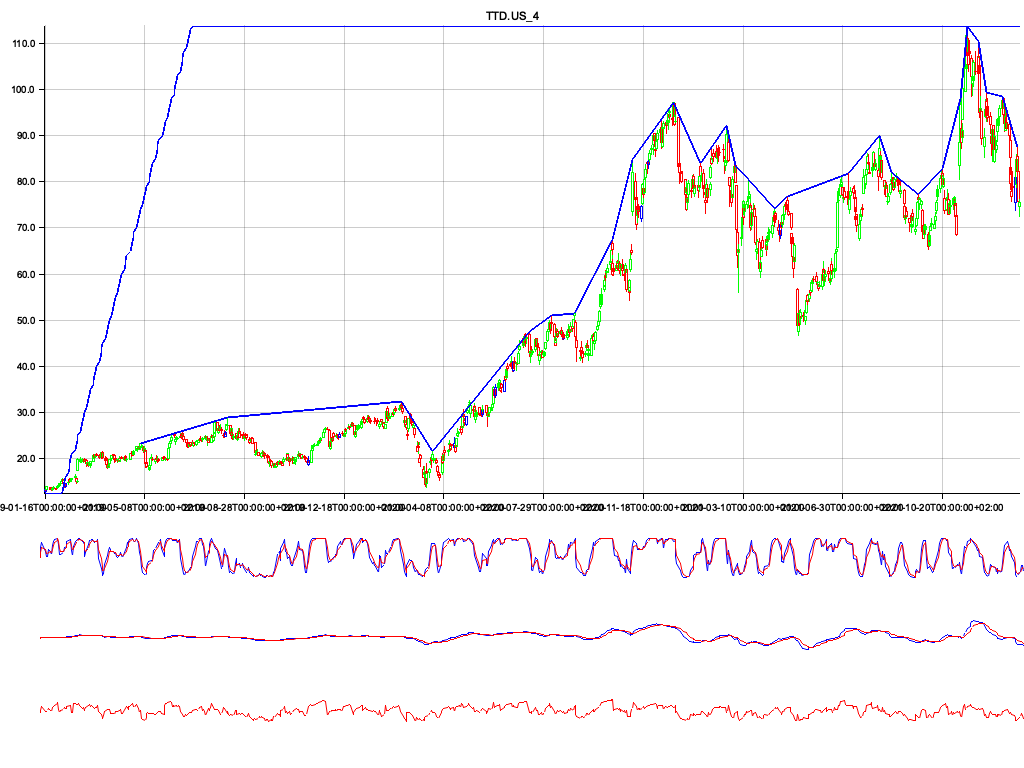
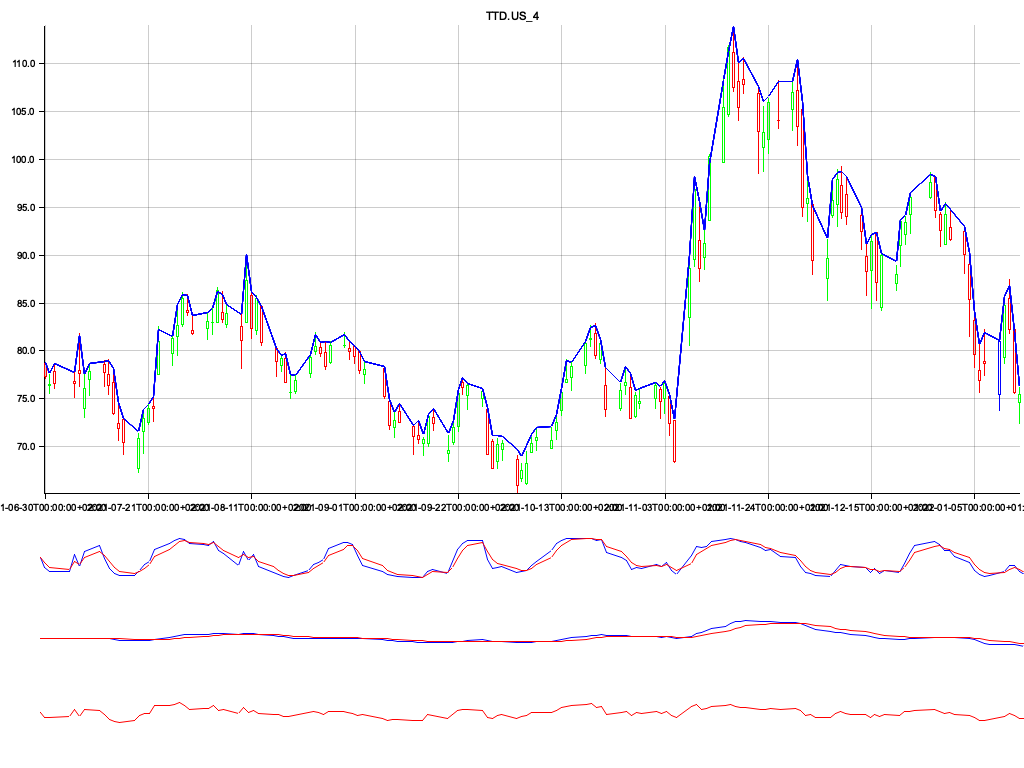
refactor: improve kernel regressing (not finished)

diff --git a/src/backend.rs b/src/backend.rs
@@ -36,7 +36,8 @@ impl Backend {
 
         let data = instrument.data();
         let local_maxima = instrument.peaks().local_maxima();
-        let smooth_maxima = instrument.peaks().smooth_maxima();
+        let smooth_highs = instrument.peaks().smooth_highs();
+        let smooth_lows = instrument.peaks().smooth_lows();
         let local_minima = instrument.peaks().local_minima();
         let extrema_maxima = instrument.peaks().extrema_maxima();
         let extrema_minima = instrument.peaks().extrema_minima();
@@ -101,10 +102,24 @@ impl Backend {
             .unwrap();
 
         // UPPER CHANNEL
-        for x in local_maxima.iter() {
+        // for x in local_maxima.iter() {
+        //     chart
+        //         .draw_series(LineSeries::new(
+        //             (0..).zip(local_maxima.iter()).map(|(_k, highs)| {
+        //                 let idx = highs.0;
+        //                 let value = highs.1;
+        //                 let date = data[idx].date();
+        //                 (date, value)
+        //             }),
+        //             &BLUE,
+        //         ))
+        //         .unwrap();
+        // }
+
+        for x in smooth_highs.iter() {
             chart
                 .draw_series(LineSeries::new(
-                    (0..).zip(local_maxima.iter()).map(|(_k, highs)| {
+                    (0..).zip(smooth_highs.iter()).map(|(_k, highs)| {
                         let idx = highs.0;
                         let value = highs.1;
                         let date = data[idx].date();
@@ -115,10 +130,10 @@ impl Backend {
                 .unwrap();
         }
 
-        for x in local_maxima.iter() {
+        for x in smooth_lows.iter() {
             chart
                 .draw_series(LineSeries::new(
-                    (0..).zip(smooth_maxima.iter()).map(|(_k, highs)| {
+                    (0..).zip(smooth_lows.iter()).map(|(_k, highs)| {
                         let idx = highs.0;
                         let value = highs.1;
                         let date = data[idx].date();
@@ -128,6 +143,20 @@ impl Backend {
                 ))
                 .unwrap();
         }
+
+        // for x in local_minima.iter() {
+        //     chart
+        //         .draw_series(LineSeries::new(
+        //             (0..).zip(smooth_highs.iter()).map(|(_k, highs)| {
+        //                 let idx = highs.0;
+        //                 let value = highs.1;
+        //                 let date = data[idx].date();
+        //                 (date, value)
+        //             }),
+        //             &BLUE,
+        //         ))
+        //         .unwrap();
+        // }
         // chart
         //   .draw_series(LineSeries::new(
         //     (0..).zip(upper_channel.lower_band()[2].iter()).map(|(_k, highs)| {

diff --git a/src/patterns/peaks.rs b/src/patterns/peaks.rs
@@ -1,7 +1,6 @@
 use crate::error::Result;
 use crate::helpers::poly::fit;
 use crate::helpers::regression::kernel_regression;
-use friedrich::kernel;
 
 use find_peaks::PeakFinder;
 use std::collections::HashMap;
@@ -14,7 +13,8 @@ pub struct Peaks {
     pub highs: Vec<f64>,
     pub lows: Vec<f64>,
     pub local_maxima: Vec<(usize, f64)>,
-    pub smooth_maxima: Vec<(usize, f64)>,
+    pub smooth_highs: Vec<(usize, f64)>,
+    pub smooth_lows: Vec<(usize, f64)>,
     pub local_minima: Vec<(usize, f64)>,
     pub extrema_maxima: Vec<(usize, f64)>,
     pub extrema_minima: Vec<(usize, f64)>,
@@ -27,7 +27,8 @@ impl Peaks {
             lows: vec![],
             local_maxima: vec![],
             local_minima: vec![],
-            smooth_maxima: vec![],
+            smooth_highs: vec![],
+            smooth_lows: vec![],
             extrema_maxima: vec![],
             extrema_minima: vec![],
         }
@@ -44,8 +45,11 @@ impl Peaks {
     pub fn local_maxima(&self) -> &Vec<(usize, f64)> {
         &self.local_maxima
     }
-    pub fn smooth_maxima(&self) -> &Vec<(usize, f64)> {
-        &self.smooth_maxima
+    pub fn smooth_highs(&self) -> &Vec<(usize, f64)> {
+        &self.smooth_highs
+    }
+    pub fn smooth_lows(&self) -> &Vec<(usize, f64)> {
+        &self.smooth_lows
     }
     pub fn local_minima(&self) -> &Vec<(usize, f64)> {
         &self.local_minima
@@ -83,24 +87,20 @@ impl Peaks {
             self.local_maxima.push((candle_id, price.abs()));
         }
 
-        //let kernel = kernel_regression(&self.highs());
-        //let kernel = kernel_regression(&vec![0., 1., 2., 3., 4., 5.]);
-        //let leches = kernel(self.highs());
-        //let gp = GaussianProcess::default(training_inputs, training_outputs);
         //CONTINUE HERE
         let mut candle_id = 0;
         for x in &self.highs {
-            //let kernel = kernel_regression(&self.highs(), candle_id as f64);
-            let leches = kernel::Gaussian::new(*x, candle_id as f64);
-            self.smooth_maxima.push((candle_id, leches.ampl));
+            let leches = kernel_regression(1., *x, &self.highs);
+            self.smooth_highs.push((candle_id, leches.abs()));
             candle_id += 1;
         }
 
-        println!("{:?}", self.smooth_maxima);
-
-        //let mean = gp.predict(&self.highs);
-
-        //CONTINUE HERE
+        // let mut candle_id = 0;
+        // for x in &self.lows {
+        //     let leches = kernel_regression(1., *x, &self.lows);
+        //     self.smooth_lows.push((candle_id, leches.abs()));
+        //     candle_id += 1;
+        // }
 
         let mut local_minima_fp = PeakFinder::new(&self.lows);
         local_minima_fp.with_min_prominence(local_prominence);

diff --git a/src/helpers/regression.rs b/src/helpers/regression.rs
@@ -1,37 +1,34 @@
-use friedrich::kernel;
-
 fn gauss_const(h: f64) -> f64 {
     let pi = std::f64::consts::PI * 2.;
     1. / (h * pi.sqrt())
 }
 
-fn gauss_exp(ker_x: &Vec<f64>, xi: f64, h: f64) -> Vec<f64> {
-    let num: Vec<f64> = ker_x
-        .iter()
-        .map(|x| (0.5 * (xi - x).powf(2.)) / h * h)
-        .collect();
-    num
+fn kernel_function_vec(h: f64, ker_x: &Vec<f64>, xi: f64) -> Vec<f64> {
+    ker_x.iter().map(|x| kernel_function(h, *x, xi)).collect()
 }
 
-fn kernel_function(h: f64, ker_x: &Vec<f64>, xi: f64) -> Vec<f64> {
-    let gauss_const = gauss_const(h);
-    let gauss_val: Vec<f64> = gauss_exp(ker_x, xi, h)
-        .iter()
-        .map(|x| gauss_const * x.exp())
-        .collect();
-    println!("{:?}", gauss_val);
-    //println!("11111, {:?}", gauss_val.par_map_inplace(|x| *x = x.exp()));
-    gauss_val
+fn gauss_exp(ker_x: f64, xi: f64, h: f64) -> f64 {
+    -(0.5 * (xi - ker_x).powf(2.)) / h * h
 }
 
-// fn weights(bw_manual: f64, input_x: f64, all_input_values: Vec<f64>) {
-//     for x in all_input_values {
-//         let ki = kernel_function(bw_manual, all_input_values, input_x);
-//     }
-// }
+fn kernel_function(h: f64, ker_x: f64, xi: f64) -> f64 {
+    gauss_const(h) * gauss_exp(ker_x, xi, h).exp()
+}
 
-pub fn kernel_regression(kernel_x: &Vec<f64>, input_x: f64) -> Vec<f64> {
-    let bw_manual = 1.0;
-    let col3 = kernel_function(bw_manual, kernel_x, input_x);
-    col3
+fn weights(bw_manual: f64, input_x: f64, all_input_values: &Vec<f64>) -> Vec<f64> {
+    let mut w_row: Vec<f64> = vec![];
+    for x_i in all_input_values {
+        let ki = kernel_function(bw_manual, *x_i, input_x);
+        let ki_sum: f64 = kernel_function_vec(bw_manual, all_input_values, input_x)
+            .iter()
+            .sum();
+
+        w_row.push(ki / ki_sum);
+    }
+    w_row
+}
+
+pub fn kernel_regression(bw_manual: f64, input_x: f64, new_x: &Vec<f64>) -> f64 {
+    let w = weights(bw_manual, input_x, &new_x);
+    new_x.iter().zip(w.iter()).map(|(a, b)| (a * b)).sum()
 }

diff --git a/src/main.rs b/src/main.rs
@@ -1,4 +1,3 @@
-
 use broker::xtb::Xtb;
 use broker::Broker;
 use error::Result;
@@ -19,18 +18,15 @@ mod instrument;
 mod patterns;
 mod screener;
 
-const TICKER: &str = "TTD.US_4";
+const TICKER: &str = "AAPL.US_4";
 
 #[tokio::main]
 async fn main() -> Result<()> {
-
-
-    
     dotenv().ok();
 
     let username = &env::var("BROKER_USERNAME").unwrap();
     let password = &env::var("BROKER_PASSWORD").unwrap();
-    let from = (Local::now() - date::Duration::days(365 * 3)).timestamp();
+    let from = (Local::now() - date::Duration::days(365 * 1)).timestamp();
 
     //TODO configure with builder (credentials, optional render)
     let mut screener = Screener::<Xtb>::new(TICKER).await?;

diff --git a/src/helpers/mod.rs b/src/helpers/mod.rs
@@ -1,5 +1,5 @@
 pub mod date;
 pub mod http;
 pub mod poly;
-pub mod websocket;
 pub mod regression;
+pub mod websocket;
